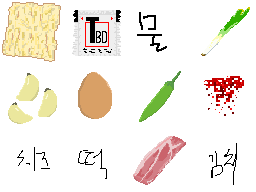
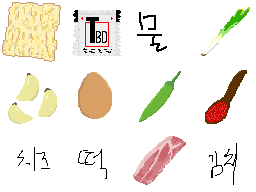
밭 팝업 작업중

Changed region(s): [[0.7812, 0.3438, 0.9688, 0.6562]]

diff --git a/Assets/Scripts/BuyFirstIngredient.cs b/Assets/Scripts/BuyFirstIngredient.cs
@@ -1,18 +1,32 @@
 using System.Collections;
 using System.Collections.Generic;
 using UnityEngine;
+using UnityEngine.UI;
 
 public class BuyFirstIngredient : MonoBehaviour
 {
-    // Start is called before the first frame update
-    void Start()
+    int index;
+    Button button;
+
+    private void Start()
     {
-        
+        button = GetComponent<Button>();
+        button.onClick.AddListener(() => OnClick());
     }
 
-    // Update is called once per frame
-    void Update()
+    public void SetValue(int index)
     {
-        
+        this.index = index;
+    }
+
+    public void OnClick()
+    {
+        Ingredient ingredient = GameManager.Instance.GetIngredients()[index];
+
+    }
+
+    public void PurchaseIngredient()
+    {
+
     }
 }
